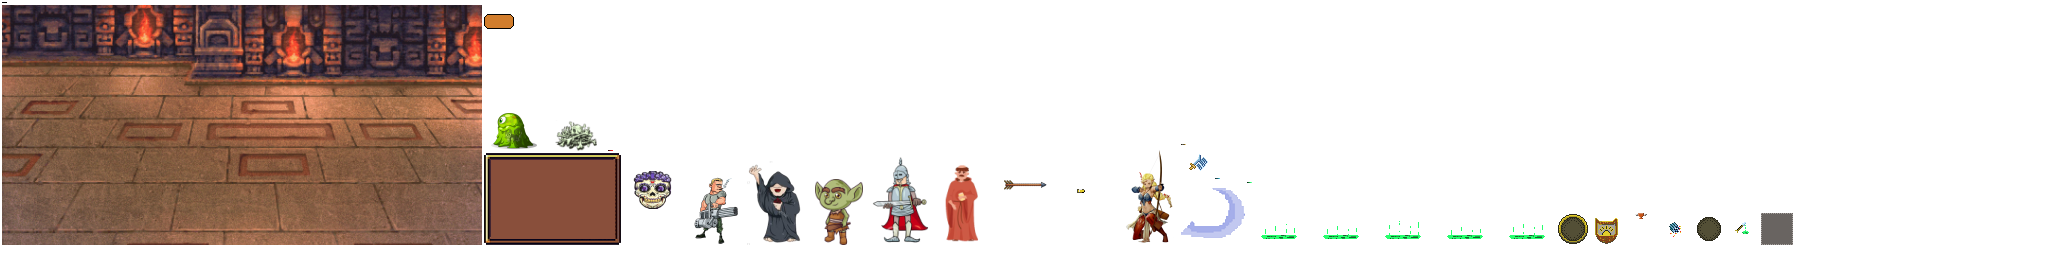
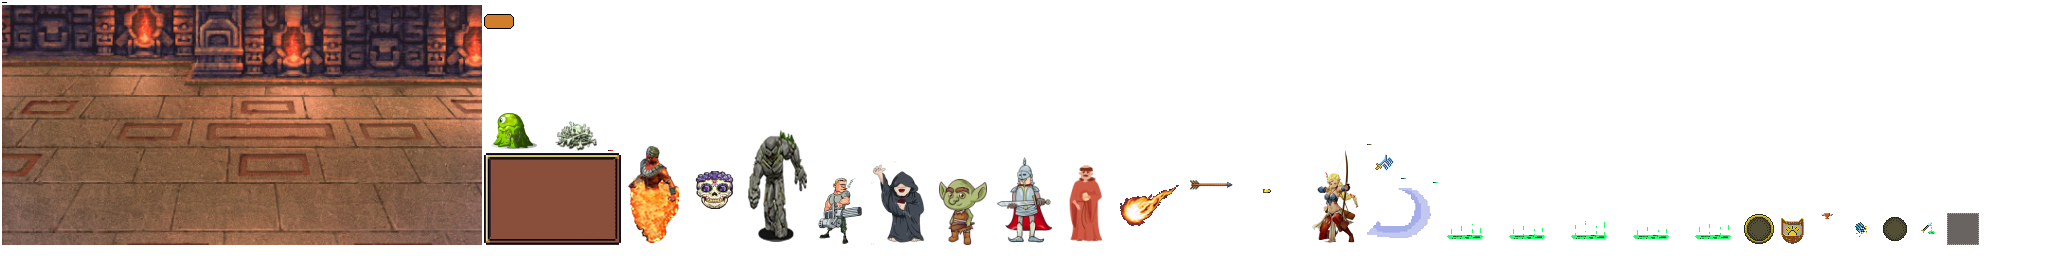
fire earth elements, no ailments implemented

diff --git a/android/battle/src/main/java/com/game7th/battle/unit/UnitFactory.kt b/android/battle/src/main/java/com/game7th/battle/unit/UnitFactory.kt
@@ -13,6 +13,7 @@ import kotlin.random.Random
 
 enum class UnitStatPriority {
     PRIMARY, SECONDARY, TERTIARY;
+
     fun selectStat(s1: Int, s2: Int, s3: Int) = when (ordinal) {
         0 -> s1
         1 -> s2
@@ -103,7 +104,7 @@ object UnitFactory {
                     ticker {
                         ticksToTrigger = 3
                         body = { battle, unit ->
-                            val damage = (battle.balance.slime.flatDmg + (unit.stats.level * (2 * unit.stats.level - 1)) * battle.balance.slime.m).toInt()
+                            val damage = (battle.balance.slime.damage.f + (unit.stats.level * (2 * unit.stats.level - 1)) * battle.balance.slime.damage.m).toInt()
                             if (damage > 0) {
                                 val target = battle.findClosestAliveEnemy(unit)
                                 target?.let { target ->
@@ -116,6 +117,52 @@ object UnitFactory {
                 }
                 slime
             }
+            UnitType.EARTH_ELEMENT -> {
+                val hp = balance.earth_element.hp.let { it.f + it.m * level + exp(it.k * level) }.toInt()
+                val result = UnitStats(skin = "personage_earth_element", level = level, health = CappedStat(hp, hp))
+                result += ability {
+                    ticker {
+                        ticksToTrigger = 3
+                        body = { battle, unit ->
+                            val damage = (battle.balance.earth_element.damage.f + (unit.stats.level * (2 * unit.stats.level - 1)) * battle.balance.earth_element.damage.m).toInt()
+                            if (damage > 0) {
+                                val target = battle.findClosestAliveEnemy(unit)
+                                target?.let { target ->
+                                    battle.notifyAttack(unit, target)
+                                    val result = battle.processDamage(target, unit, DamageVector(damage, 0, 0))
+                                    if (result.status != DamageProcessStatus.DAMAGE_EVADED) {
+                                        //stun?
+                                    }
+                                }
+                            }
+                        }
+                    }
+                }
+                result
+            }
+            UnitType.FLAME_ELEMENT -> {
+                val hp = balance.fire_element.hp.let { it.f + it.m * level + exp(it.k * level) }.toInt()
+                val result = UnitStats(skin = "personage_fire_element", level = level, health = CappedStat(hp, hp))
+                result += ability {
+                    ticker {
+                        ticksToTrigger = 3
+                        body = { battle, unit ->
+                            battle.notifyAoeProjectile("projectile_fireball", unit, -1)
+                            val damage = (battle.balance.fire_element.damage.f + (unit.stats.level * (2 * unit.stats.level - 1)) * battle.balance.fire_element.damage.m).toInt()
+
+                            if (damage > 0) {
+                                battle.aliveEnemies(unit).forEach { enemy ->
+                                    val result = battle.processDamage(enemy, unit, DamageVector(0, damage, 0))
+                                    if (result.status != DamageProcessStatus.DAMAGE_EVADED) {
+                                        //ignite?
+                                    }
+                                }
+                            }
+                        }
+                    }
+                }
+                result
+            }
             UnitType.CITADEL_WARLOCK -> {
                 val hp = balance.citadel_warlock.hp.let { it.f + it.m * level + exp(it.k * level) }.toInt()
                 val warlock = UnitStats(skin = "personage_citadel_warlock", level = level, health = CappedStat(hp, hp))
@@ -124,7 +171,7 @@ object UnitFactory {
                         ticksToTrigger = 5
                         body = { battle, unit ->
                             battle.notifyAoeProjectile("projectile_skull", unit, -1)
-                            val damage = (battle.balance.citadel_warlock.flatDmg + (unit.stats.level * (2 * unit.stats.level - 1)) * battle.balance.citadel_warlock.m).toInt()
+                            val damage = (battle.balance.citadel_warlock.damage.f + (unit.stats.level * (2 * unit.stats.level - 1)) * battle.balance.citadel_warlock.damage.m).toInt()
 
                             if (damage > 0) {
                                 battle.aliveEnemies(unit).forEach { enemy ->

diff --git a/android/battle/src/main/java/com/game7th/battle/balance/SwipeBalance.kt b/android/battle/src/main/java/com/game7th/battle/balance/SwipeBalance.kt
@@ -23,21 +23,45 @@ data class HpBalance(
     val m: Int
 )
 
+/**
+ * DMG = F + (LVL-1) * S
+ */
+data class LinearDamageBalance(
+        val f: Float,     //flat
+        val m: Float    //scale
+)
+
+/**
+ * DMG = O * ( EXP(K*LVL) + F + M * LVL )
+ * O - overall koef
+ */
+data class ExponentialDamageBalance(
+        val k: Float,
+        val f: Float,
+        val m: Float,
+        val o: Float
+)
+
 data class SlimeBalance(
-    val flatDmg: Int,
-    val scaleDmg: Float,
-    val m: Float,
-    val hp: HpBalance
+    val hp: HpBalance,
+    val damage: LinearDamageBalance
 )
 
 data class CitadelWarlockBalance(
-        val flatDmg: Int,
-        val scaleDmg: Float,
-        val m: Float,
+        val damage: LinearDamageBalance,
         val hp: HpBalance,
         val healPercentage: Float
 )
 
+data class FireElementBalance(
+        val damage: ExponentialDamageBalance,
+        val hp: HpBalance
+)
+
+data class EarthElementBalance(
+        val damage: ExponentialDamageBalance,
+        val hp: HpBalance
+)
 
 data class GladiatorBalance(
         val c: Int,
@@ -70,6 +94,8 @@ data class SwipeBalance(
         val stats: StatBalance,
         val slime: SlimeBalance,
         val citadel_warlock: CitadelWarlockBalance,
+        val fire_element: FireElementBalance,
+        val earth_element: EarthElementBalance,
         val gladiator: GladiatorBalance,
         val poison_archer: PoisonArcherBalance,
         val gunner: GunnerBalance

diff --git a/android/metagame/src/main/java/com/game7th/metagame/unit/UnitType.kt b/android/metagame/src/main/java/com/game7th/metagame/unit/UnitType.kt
@@ -14,11 +14,13 @@ enum class UnitType {
     UNKNOWN;
 
     fun getSkin(): String = when (this) {
-        UnitType.GLADIATOR -> "p_gladiator"
-        UnitType.POISON_ARCHER -> "personage_ranger"
-        UnitType.GREEN_SLIME -> "personage_slime"
-        UnitType.MACHINE_GUNNER -> "personage_gunner"
-        UnitType.CITADEL_WARLOCK -> "personage_citadel_warlock"
+        GLADIATOR -> "p_gladiator"
+        POISON_ARCHER -> "personage_ranger"
+        GREEN_SLIME -> "personage_slime"
+        MACHINE_GUNNER -> "personage_gunner"
+        CITADEL_WARLOCK -> "personage_citadel_warlock"
+        FLAME_ELEMENT -> "personage_fire_element"
+        EARTH_ELEMENT -> "personage_earth_element"
         else -> "personage_dead"
     }
 }

diff --git a/android/core/src/com/game7th/swipe/game/actors/PersonageActor.kt b/android/core/src/com/game7th/swipe/game/actors/PersonageActor.kt
@@ -109,7 +109,7 @@ class PersonageActor(
         }
         tickLabel = Label(getTickText(), Label.LabelStyle(context.font, Color.CYAN)).apply {
             x = 10f
-            y = 120f
+            y = 200f
             zIndex = 14
         }
         addActor(healthAmount)
